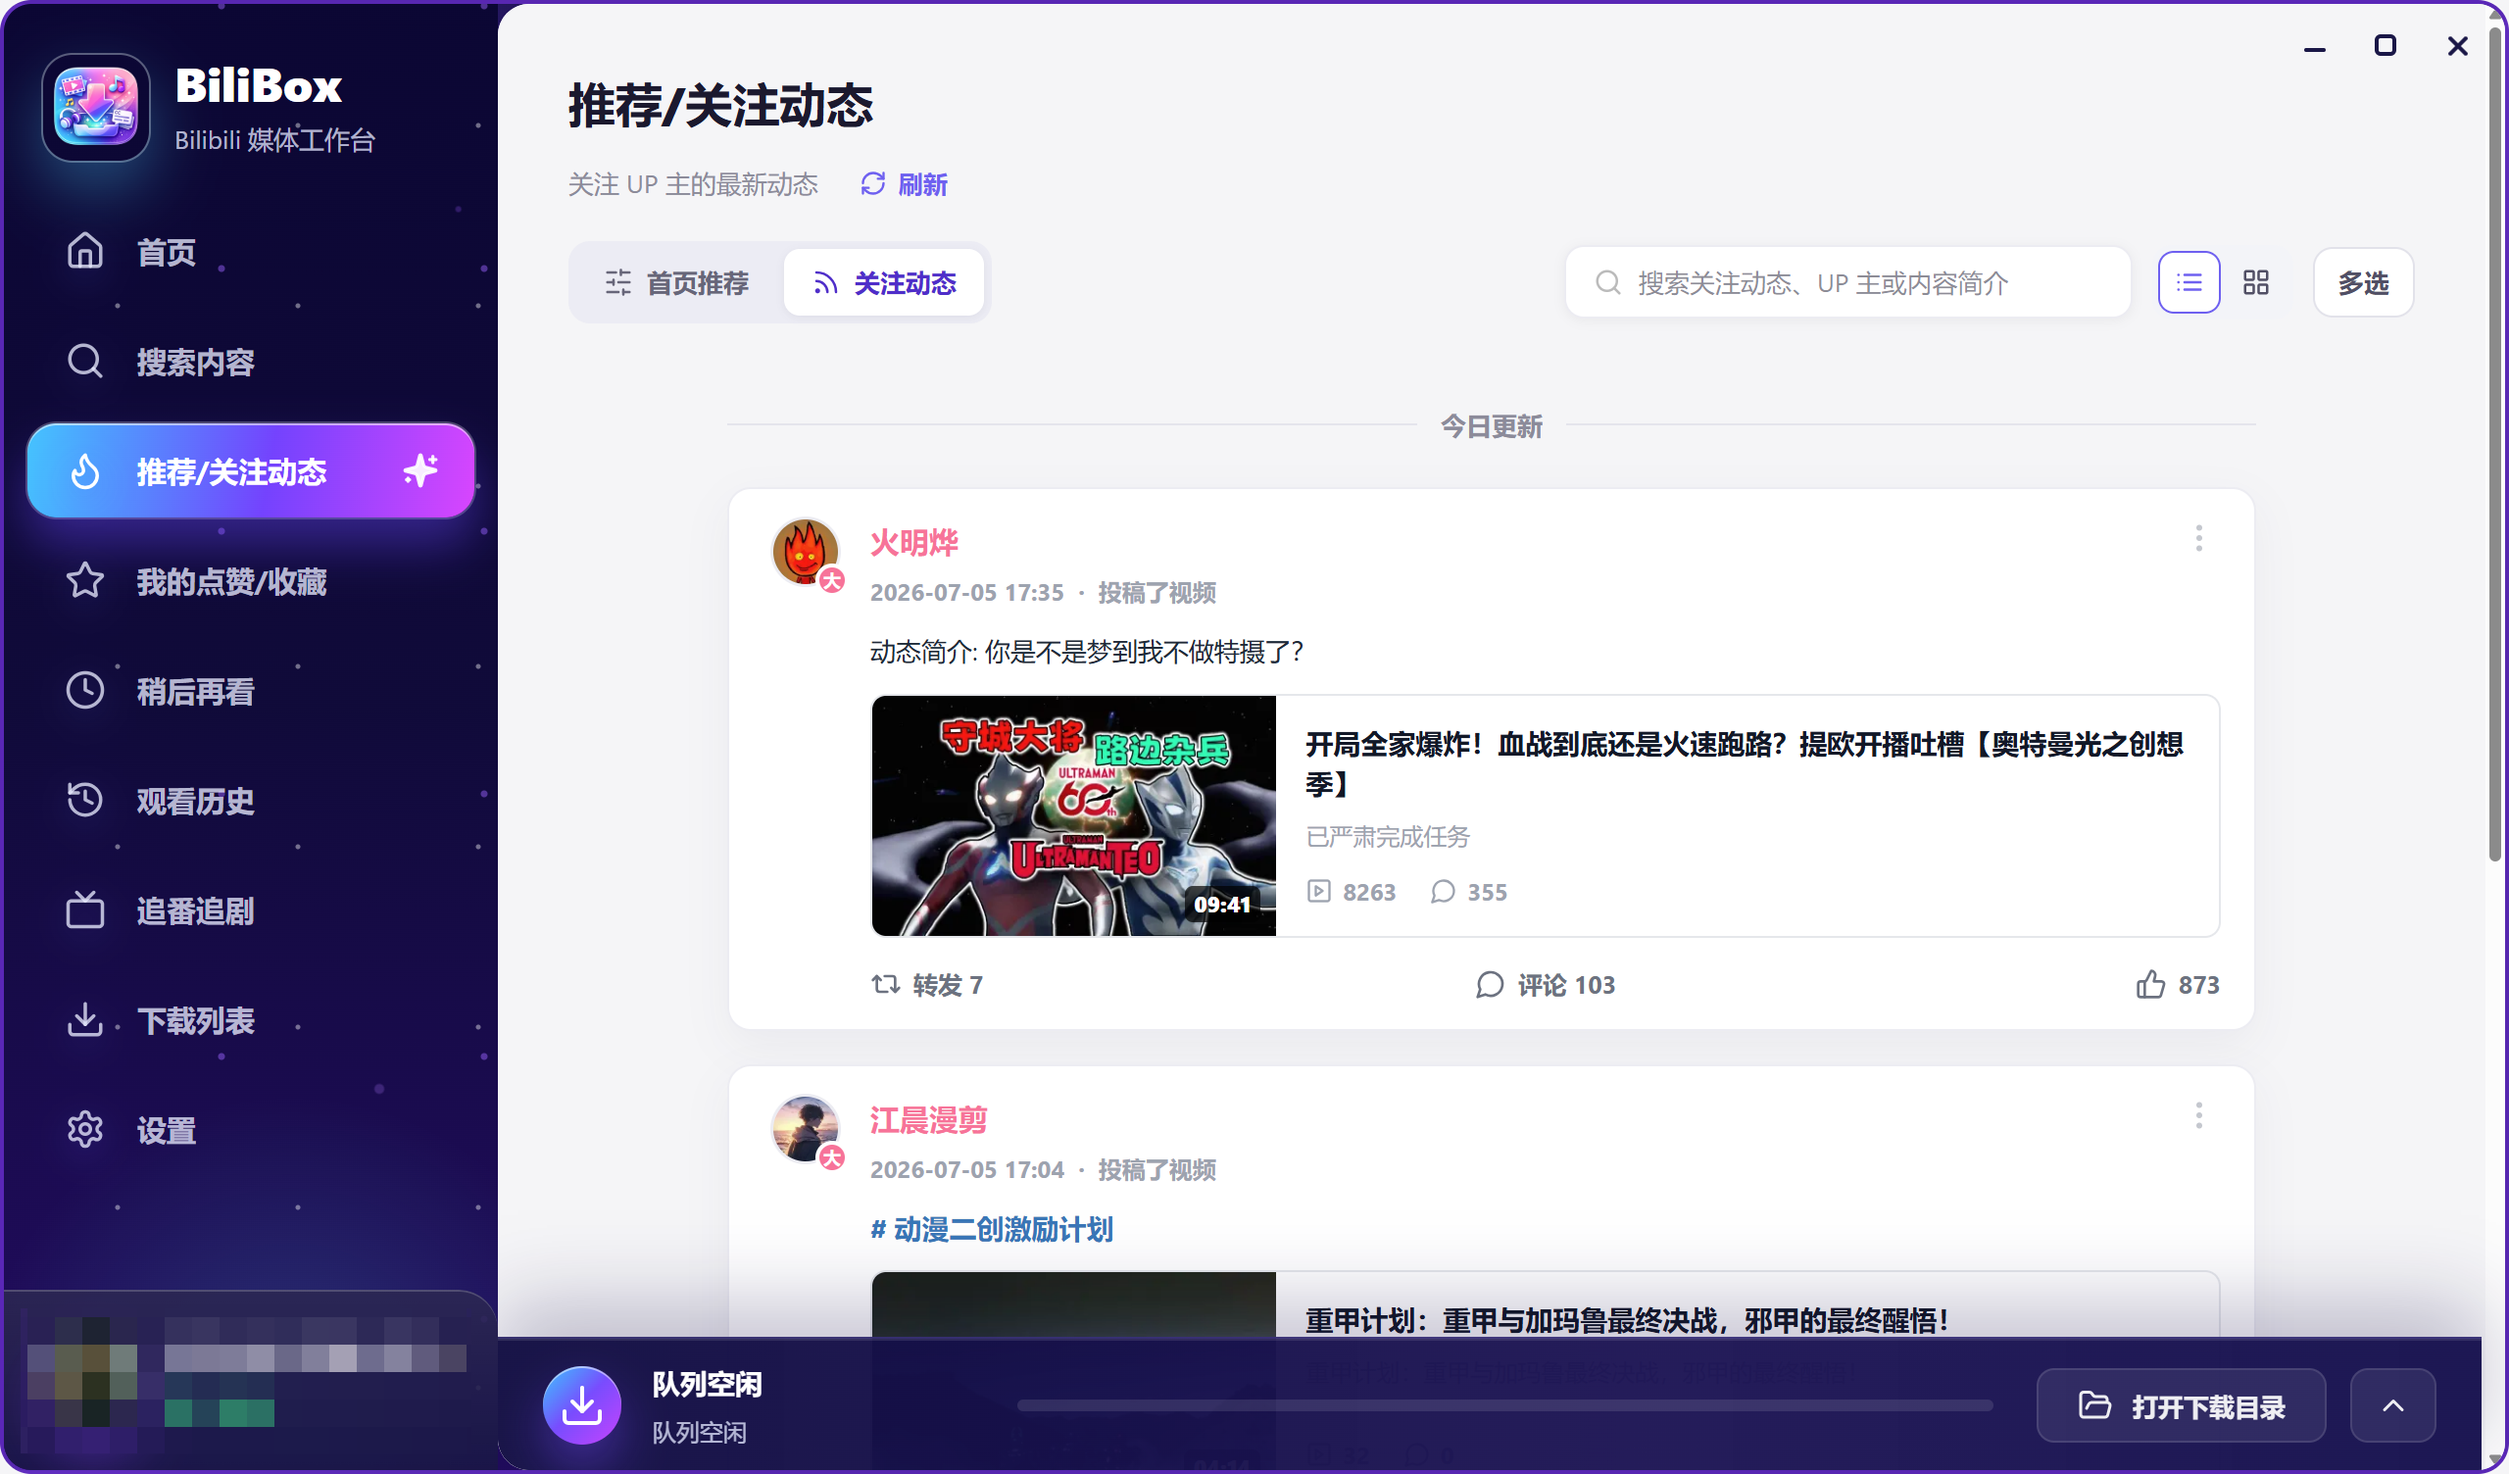
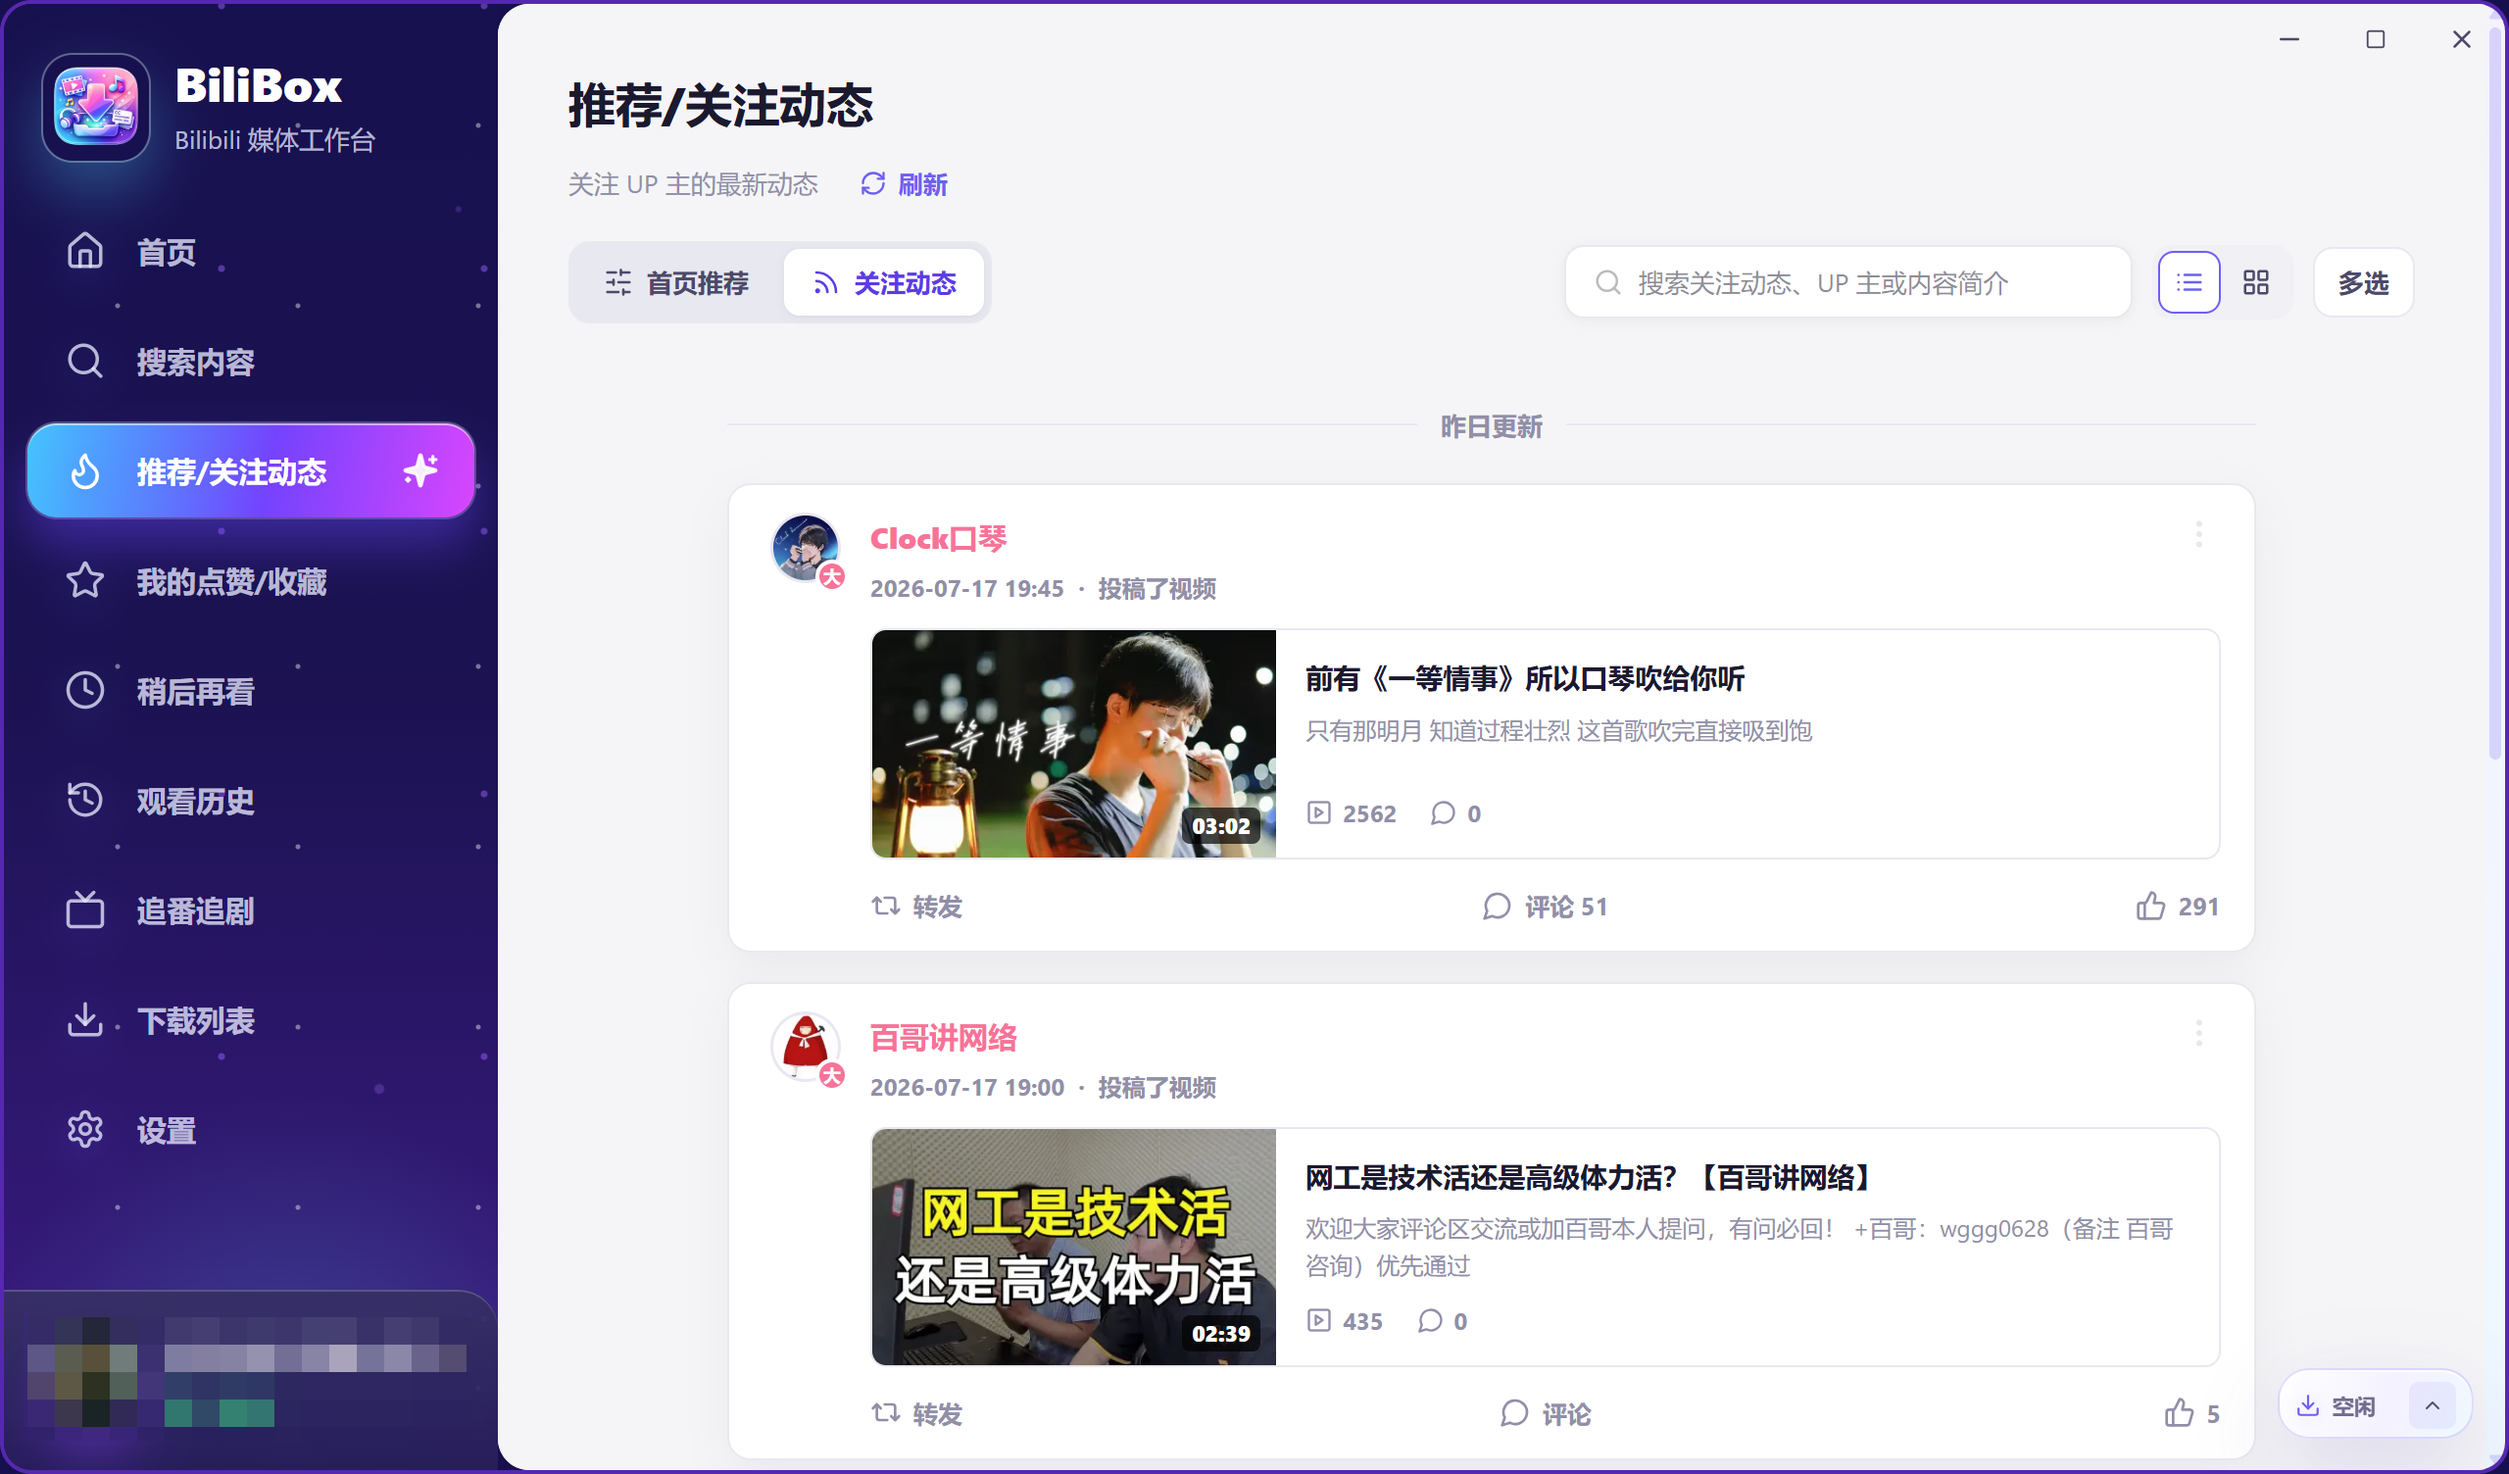
docs: 更新 v1.0.6 发布说明与界面预览
以 v1.0.5 为对照精简面向使用者的版本内容，补充悬浮胶囊下载栏、主题、下载、搜索及剧集列表修复，并更新 README 引用的界面截图。

diff --git a/docs/version-updates.md b/docs/version-updates.md
@@ -1,33 +1,21 @@
 ## 新版本内容
 
+本版本在 `v1.0.5` 基础上重点更新了界面主题、下载体验和聚合搜索。
+
 ### 新增与优化
 
-- 全面更新 Windows、macOS 与 Linux 构建脚本：统一使用锁定依赖、复用仓库内应用图标，并改进 FFmpeg/FFprobe 运行时准备、产物检查和失败提示，提升本地构建及 GitHub Actions 发布的稳定性。
-- 重构聚合搜索体验：视频、番剧、影视、直播、专栏与用户分类拥有独立分页状态，切换某一分类页码不再影响其他栏目；搜索条件、分类页码及上次结果支持持久缓存，重新进入页面后可继续浏览。
-- 新增可选网页搜索兜底：官方 API 触发 412 风控时保留当前结果，并由用户主动选择使用 B 站公开网页搜索或在系统浏览器中打开，不会在后台自动切换来源。
-- 扩展网页搜索结果解析：支持服务端 HTML 中的视频、直播、用户、番剧、影视和专栏结果，增加独立缓存、来源标识、异常页面识别及解析测试。
-- 完善搜索结果作者信息：视频、直播与专栏卡片统一显示可点击的小型 UP 主头像；缺失头像时按 UP 主编号补查资料，并对有效头像进行持久缓存和请求去重。
-- 优化下载文件命名和目录处理：下载内容优先使用作品发布标题作为保存名称，自动清理 Windows 不支持的文件名字符，并在创建媒体文件前完整建立目标目录。
-- 优化下载交互：通用播放页分 P 列表新增“下载所有”和单集下载按钮；清晰度弹窗重新调整标题、控件和操作区布局，并默认选中设置中的下载清晰度。
-- 精简下载日志：分片下载过程中不再持续输出带标题和百分比的重复日志，仅保留开始下载、下载完成及明确错误原因等关键状态。
-- 重新设计悬浮下载栏：保留当前悬浮胶囊结构，统一亮色与暗色配色、边框、阴影和状态反馈，使其与应用整体视觉风格一致。
-- 完善主题系统：补齐左侧导航栏、左下角账号区域、文本、滚动条、弹窗、卡片及窗口左上角区域的亮暗色适配，降低滚动条视觉干扰。
-- 优化页面性能和视觉稳定性：恢复常用页面缓存，减少重复请求与重新挂载；收敛页面切换动画和布局变化，改善下载队列分类切换时的卡片抖动。
-- 统一多页面紧凑布局：优化主页、推荐、搜索、收藏、稍后再看、历史、下载、设置和 UP 主主页的边距、卡片密度及多选工具栏样式。
+- 下载栏改为更轻量的悬浮胶囊，并重新调整亮色、暗色下的配色、边框和阴影。
+- 完善全局亮暗主题，侧边栏、账号区域、滚动条、弹窗和卡片现在会统一切换外观。
+- 播放页的分 P/剧集列表支持单集下载和下载所有；下载清晰度弹窗会默认选中设置中的清晰度。
+- 聚合搜索支持保留上次结果和筛选状态，各分类可独立翻页；搜索结果补充 UP 主头像。
+- 官方搜索触发 412 风控时，可由用户主动选择网页搜索兜底，并保留已有搜索结果。
+- 优化常用页面缓存、切换动画和卡片布局，减少重复加载、页面卡顿与界面抖动。
 
 ### 修复的问题
 
-- 修复 Windows 前端构建中的 Select 组件类型错误，包括不支持的 `disabled` 属性、数字子节点以及字符串数组子节点导致的 TypeScript 编译失败。
-- 修复下载保存名称偶尔退化为 `lv_0_时间戳`，未采用作品真实标题的问题。
-- 修复下载时因目标父目录未创建、标题包含非法路径字符或相对路径解析不完整而出现“创建文件失败：系统找不到指定的路径 (os error 3)”的问题。
-- 修复聚合搜索页面离开或重新进入后，上次关键词、筛选条件、分类页码和搜索结果丢失的问题。
-- 修复综合搜索各分类共用分页状态，跳转视频页码会连带影响专栏等其他分类的问题。
-- 修复搜索 API 返回空头像后被永久写入缓存，网络恢复后仍无法重新补查真实头像的问题。
-- 修复搜索结果同时补查大量 UP 主资料时产生请求拥塞的问题，现改为排队请求并复用内存及持久缓存。
-- 修复聚合搜索卡片缩放后生成小数 CDN 裁剪参数，导致真实头像请求返回 HTTP 400、所有用户均显示同一占位图标的问题。
-- 修复头像图片加载失败后仅隐藏图片、不尝试刷新 UP 主资料的问题，并补齐普通视频卡片遗漏的 UP 主编号参数。
-- 修复亮色主题下窗口左上角出现与导航栏不一致的白色缺口，以及暗色主题下导航栏、账号区域和部分文字未切换颜色的问题。
-- 修复右侧滚动条颜色固定、过于醒目且不随亮暗主题变化的问题。
-- 修复下载队列在“全部”“下载中”等分类之间切换时，动画与滚动条宽度变化引起的卡片位移和页面抖动。
-- 修复下载清晰度弹窗首次打开为空选状态、控件对齐不自然，以及亮暗主题下层级不清晰的问题。
-- 修复多个平台构建脚本依赖安装方式不一致、Windows 构建失败时退出码显示为空，以及发布产物缺少必要运行时检查的问题。
+- 修复下载文件偶尔使用 `lv_0_时间戳` 命名，以及目标目录不存在时提示“系统找不到指定的路径”的问题。
+- 修复搜索结果头像全部显示为相同占位图、重新进入搜索后结果丢失，以及不同分类页码相互影响的问题。
+- 修复暗色模式下侧边栏和部分文字未适配、亮色模式左上角出现白色缺口，以及滚动条过于醒目的问题。
+- 修复播放页剧集较多时卡片被强制压缩、标题文字重叠的问题；长标题现在会自适应撑高卡片。
+- 修复下载队列切换“全部”“下载中”等分类时卡片位移和抖动的问题，并精简重复的分片进度日志。
+- 修复 Windows 前端构建的 TypeScript 报错，并提升 Windows、macOS、Linux 构建与发布产物的稳定性。
